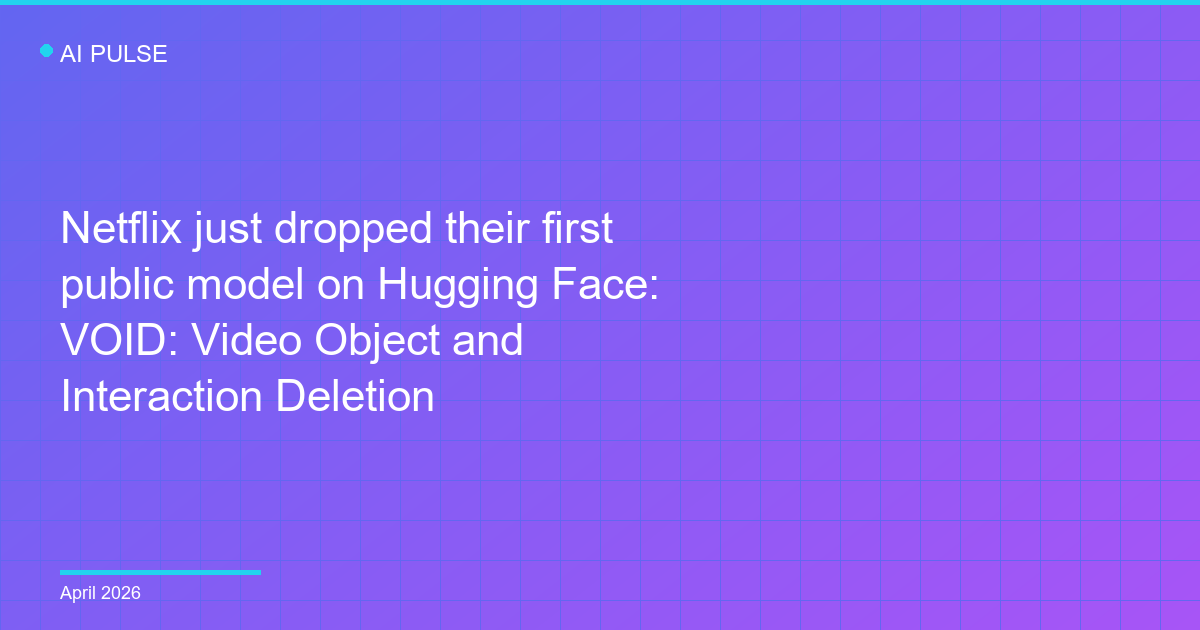
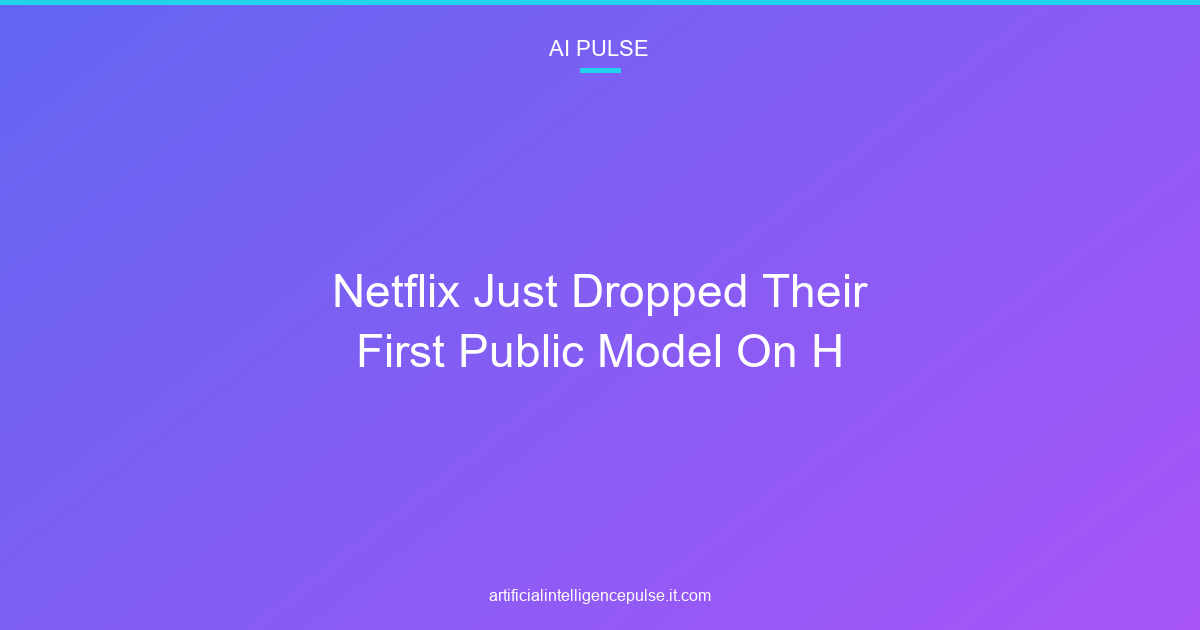
Fix auto-generated images: center text, remove grid pattern
- Remove visible grid/square overlay pattern
- Center title text horizontally and vertically
- Center brand name and accent line at top
- Replace left-aligned date with centered site URL at bottom
- Regenerate all 4 existing auto-generated images

diff --git a/scripts/generate-images.py b/scripts/generate-images.py
@@ -73,40 +73,45 @@ def generate_image(title: str, output_path: Path) -> bool:
     img = create_gradient(WIDTH, HEIGHT)
     draw = ImageDraw.Draw(img)
 
-    # Add subtle grid pattern overlay
-    for x in range(0, WIDTH, 40):
-        draw.line([(x, 0), (x, HEIGHT)], fill=(*COLOR_START, 15), width=1)
-    for y in range(0, HEIGHT, 40):
-        draw.line([(0, y), (WIDTH, y)], fill=(*COLOR_START, 15), width=1)
-
     # Add accent line at top
     draw.rectangle([(0, 0), (WIDTH, 4)], fill=COLOR_ACCENT)
 
-    # Draw "AI Pulse" brand
-    brand_font = get_font(24, bold=True)
-    draw.text((60, 40), "AI PULSE", fill=(255, 255, 255, 200), font=brand_font)
+    # Draw "AI PULSE" brand centered at top
+    brand_font = get_font(22, bold=True)
+    brand_text = "AI PULSE"
+    brand_bbox = draw.textbbox((0, 0), brand_text, font=brand_font)
+    brand_w = brand_bbox[2] - brand_bbox[0]
+    draw.text(((WIDTH - brand_w) // 2, 36), brand_text, fill=(255, 255, 255, 220), font=brand_font)
 
-    # Draw accent dot
-    draw.ellipse([(40, 44), (52, 56)], fill=COLOR_ACCENT)
+    # Draw accent line under brand
+    accent_w = 40
+    draw.rectangle([
+        ((WIDTH - accent_w) // 2, 68),
+        ((WIDTH + accent_w) // 2, 72)
+    ], fill=COLOR_ACCENT)
 
-    # Wrap and draw title
-    title_font = get_font(44, bold=True)
-    wrapped = textwrap.fill(title, width=32)
+    # Wrap and draw title centered
+    title_font = get_font(46, bold=True)
+    wrapped = textwrap.fill(title, width=28)
     lines = wrapped.split("\n")[:4]  # Max 4 lines
 
-    y_start = HEIGHT // 2 - (len(lines) * 56) // 2
+    line_height = 60
+    total_text_height = len(lines) * line_height
+    y_start = (HEIGHT - total_text_height) // 2 + 10
+
     for i, line in enumerate(lines):
-        y = y_start + i * 56
-        draw.text((60, y), line, fill=(255, 255, 255), font=title_font)
+        y = y_start + i * line_height
+        line_bbox = draw.textbbox((0, 0), line, font=title_font)
+        line_w = line_bbox[2] - line_bbox[0]
+        draw.text(((WIDTH - line_w) // 2, y), line, fill=(255, 255, 255), font=title_font)
 
-    # Draw bottom accent bar
-    draw.rectangle([(60, HEIGHT - 60), (260, HEIGHT - 56)], fill=COLOR_ACCENT)
-
-    # Draw date
+    # Draw site URL centered at bottom
     from datetime import datetime
-    date_font = get_font(18)
-    date_str = datetime.now().strftime("%B %Y")
-    draw.text((60, HEIGHT - 48), date_str, fill=(255, 255, 255, 180), font=date_font)
+    url_font = get_font(16)
+    url_text = "artificialintelligencepulse.it.com"
+    url_bbox = draw.textbbox((0, 0), url_text, font=url_font)
+    url_w = url_bbox[2] - url_bbox[0]
+    draw.text(((WIDTH - url_w) // 2, HEIGHT - 44), url_text, fill=(255, 255, 255, 150), font=url_font)
 
     # Save
     output_path.parent.mkdir(parents=True, exist_ok=True)
